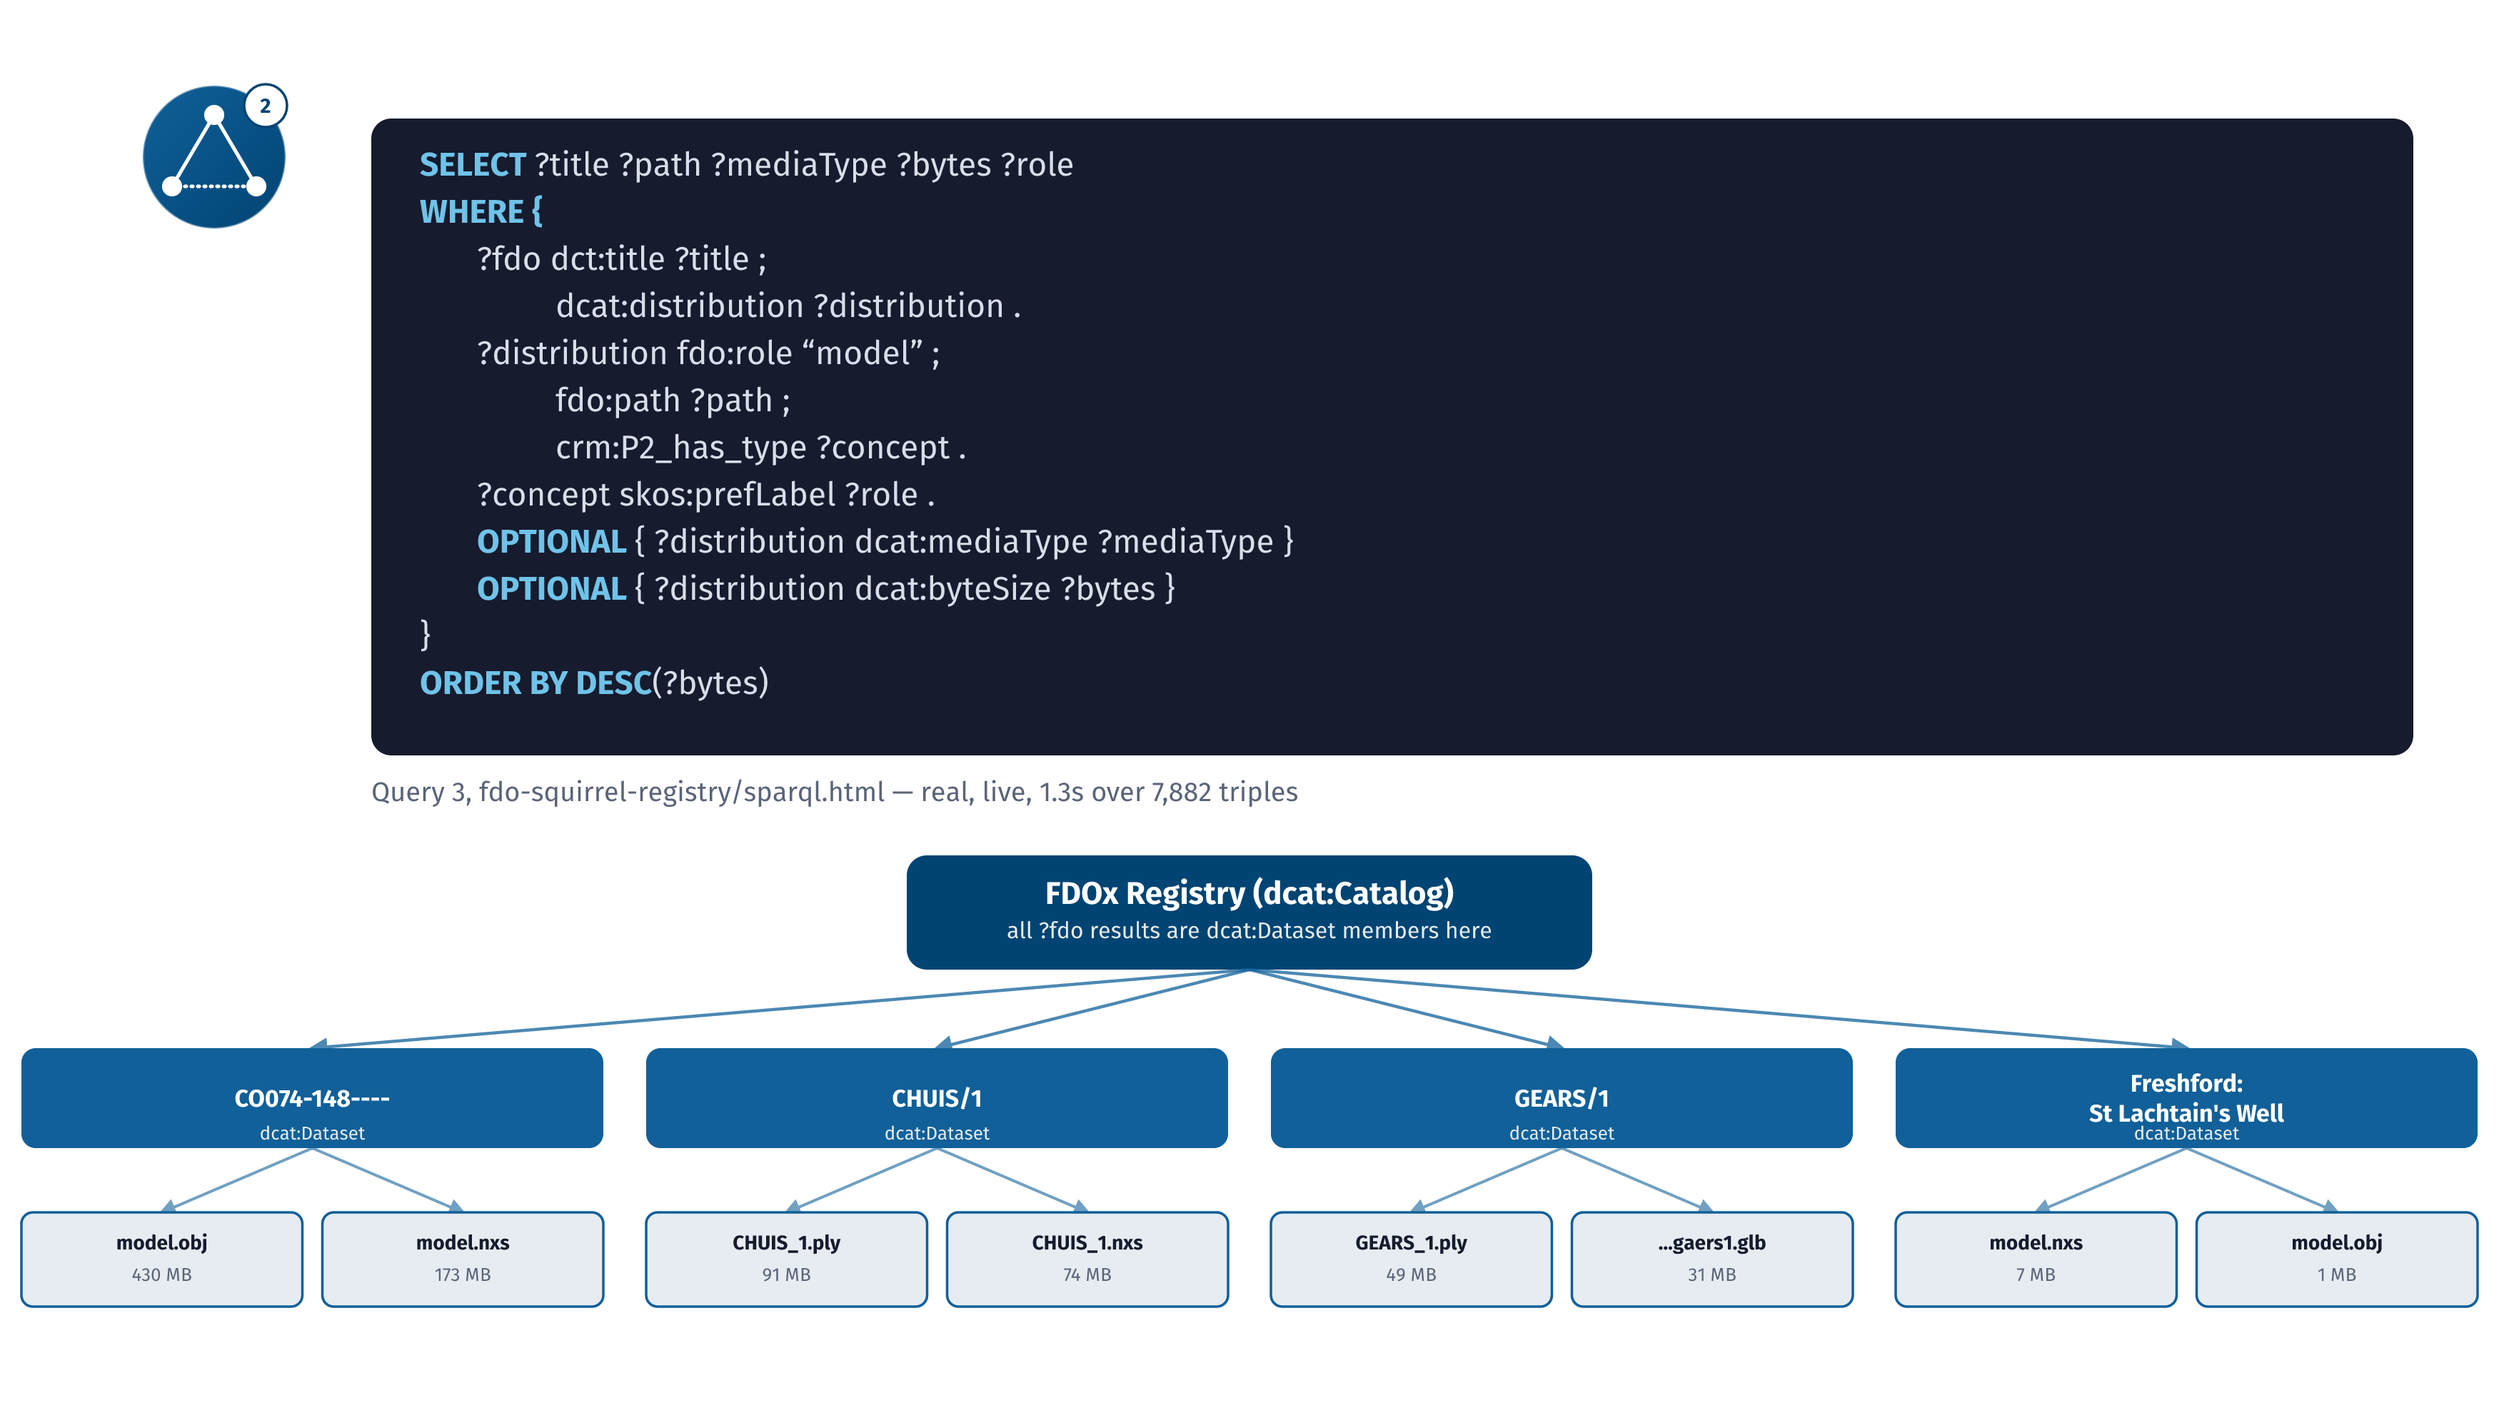
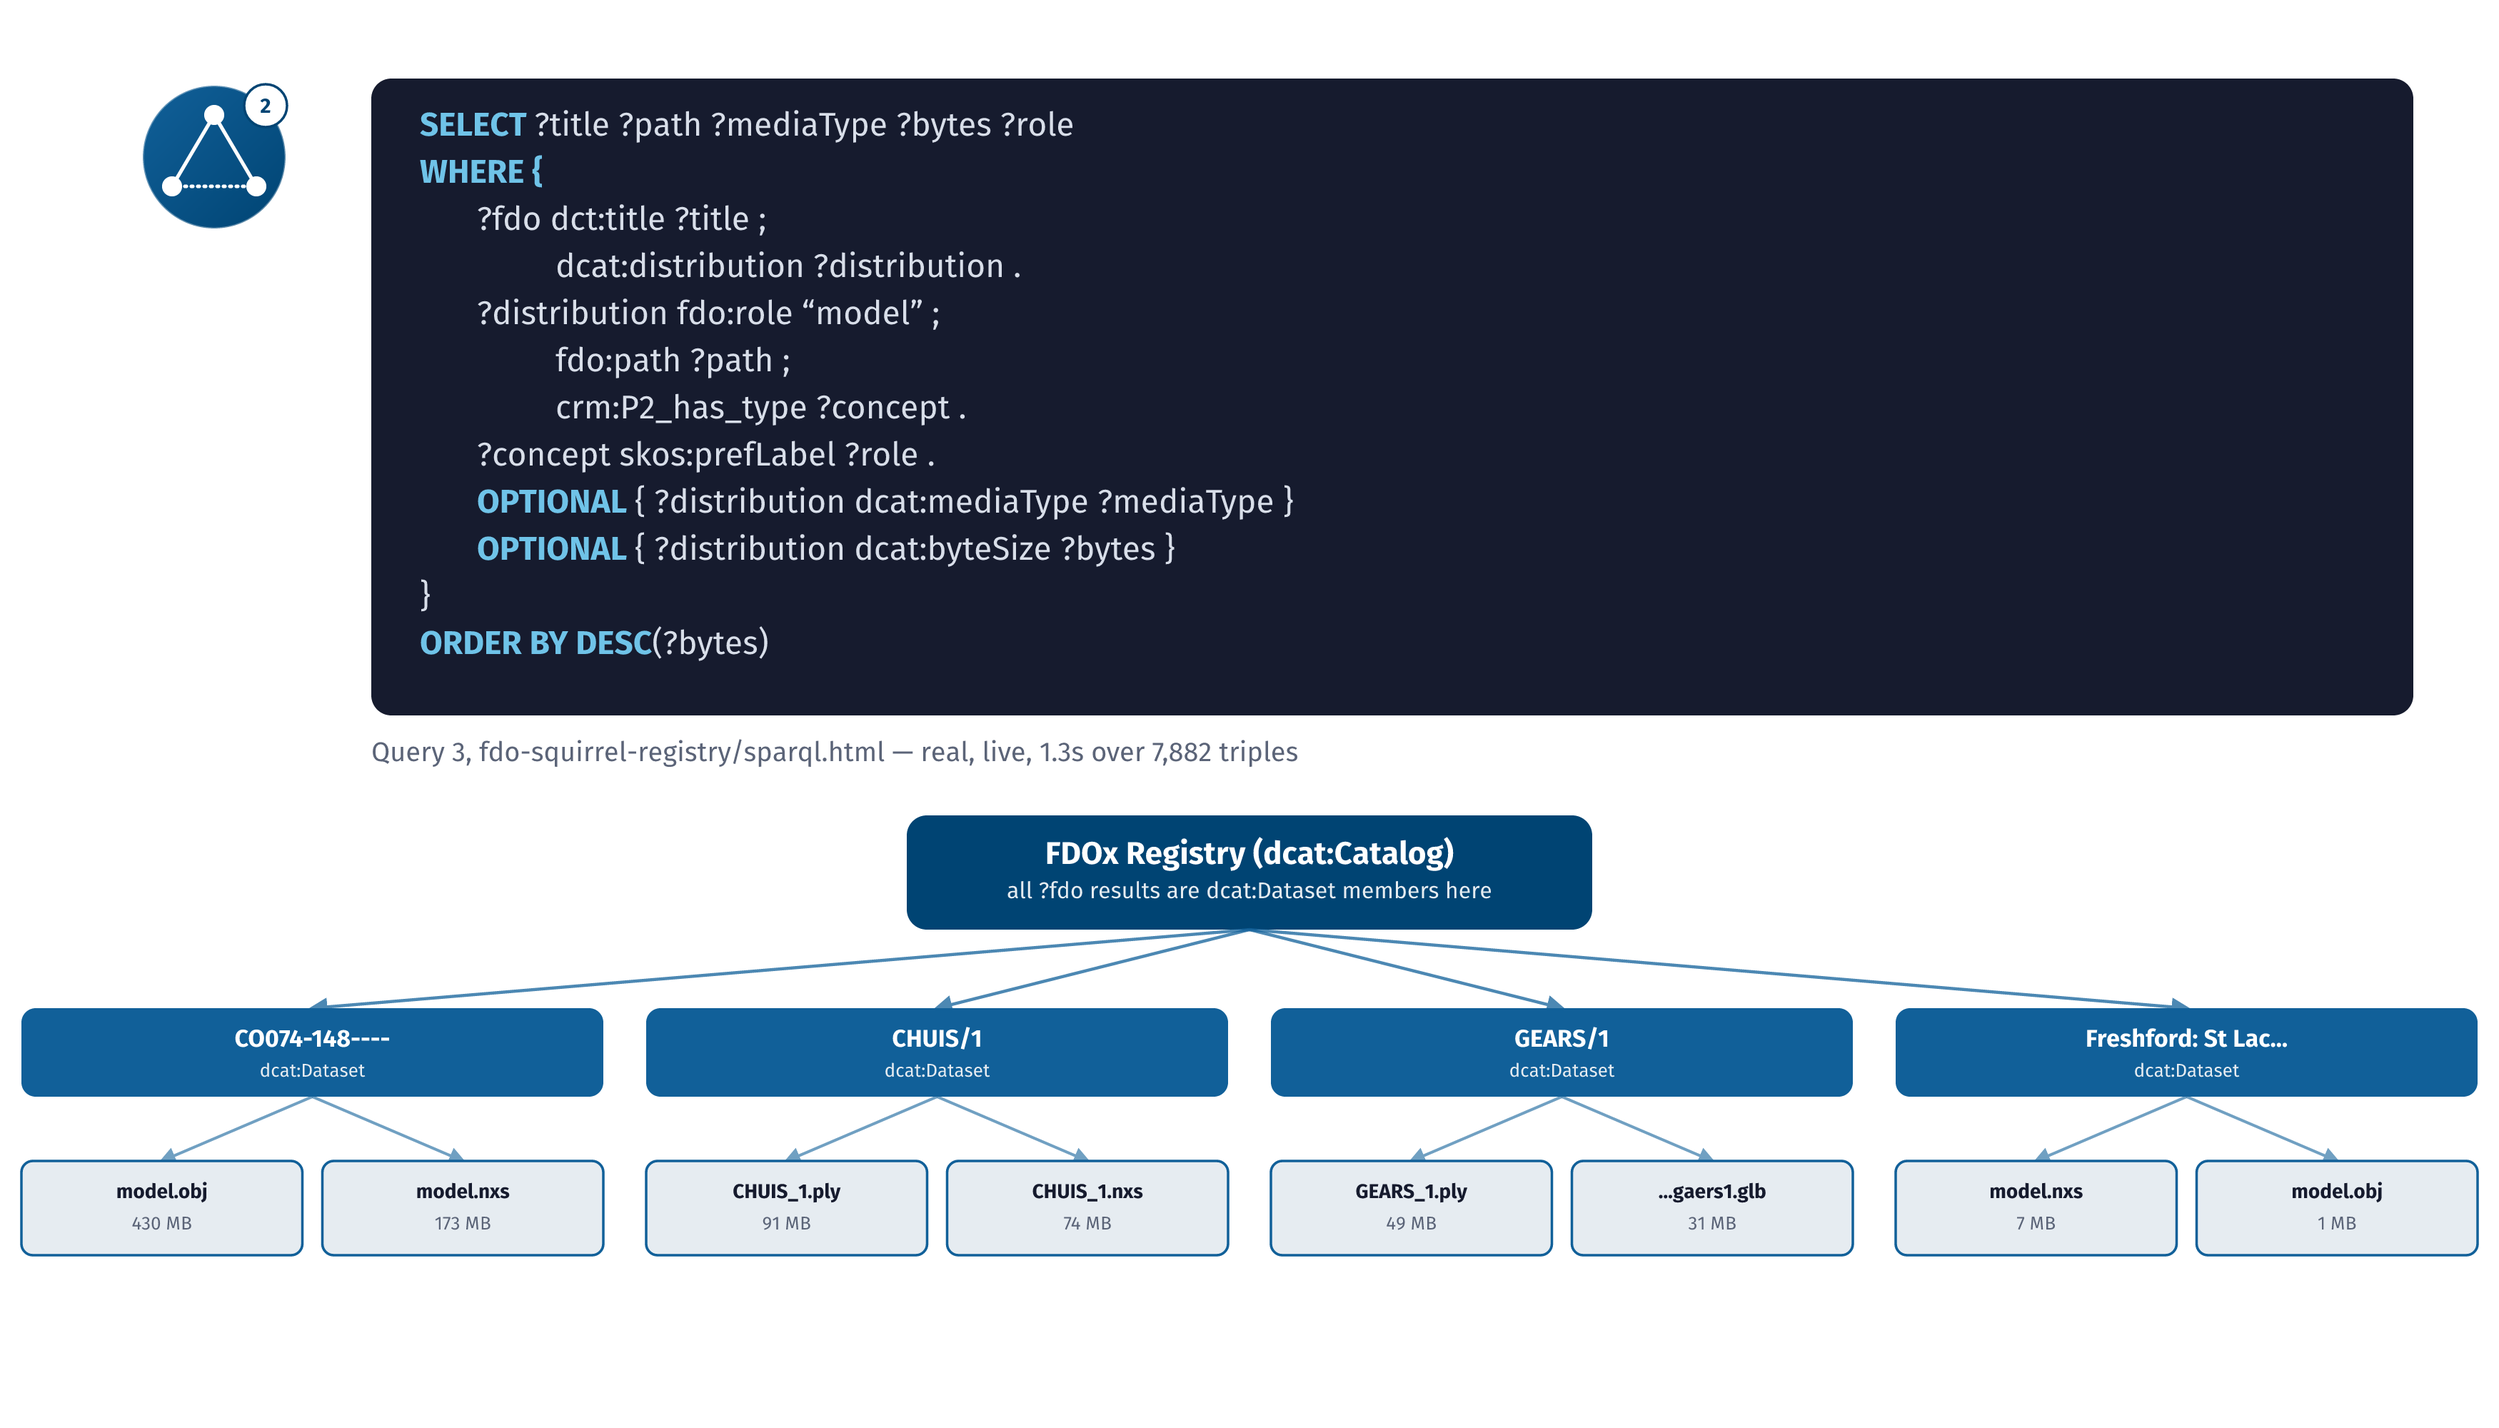
Fix S8/S9 slide positioning to match the approved references
S8 shipped a dynamic symmetric-margin balance instead of the exact (asymmetric, in three of four cases) shift Flo actually approved -- badges sat closer to content than intended. S9's purpose-2 slide wrapped a name onto two lines instead of truncating it, which pushed the dcat:Dataset caption out of alignment with the other three boxes in the same row.

Both fixes ship the exact values/behaviour from the sandbox scripts that produced the approved reference images, verified pixel-identical (purpose-2) or sub-pixel-antialiasing-only (the other seven) against them.

Changed region(s): [[0.0, 0.031, 0.9966, 0.93]]

diff --git a/py/step_talk_purpose.py b/py/step_talk_purpose.py
@@ -39,7 +39,6 @@ from visuals_utils import (  # noqa: E402
     ensure_dirs,
     esc,
     font_face_css,
-    measure_content_margins,
     render_svg_to_png,
 )
 
@@ -138,12 +137,6 @@ def _icon_svg(num: int, cy: float, scale: float = 0.6) -> str:
     out += (f'<text x="72" y="-62" text-anchor="middle" font-family="Fira Sans" font-weight="700" '
             f'font-size="29" fill="{ACCENT}">{num}</text></g>')
     return out
-
-
-def _icon_exclude_box(cy: float, scale: float) -> tuple[int, int, int, int]:
-    r = 100 * scale * OVERSAMPLE
-    cx_px, cy_px = ICON_CX * OVERSAMPLE, cy * OVERSAMPLE
-    return (int(cx_px - r), int(cy_px - r * 1.4), int(cx_px + r * 1.4), int(cy_px + r))
 
 
 def _svg_open() -> list[str]:
@@ -269,12 +262,6 @@ _QUERY_FDOS = [
     ("GEARS/1", [("GEARS_1.ply", "49 MB"), ("...gaers1.glb", "31 MB")]),
     ("Freshford: St Lachtain's Well", [("model.nxs", "7 MB"), ("model.obj", "1 MB")]),
 ]
-_QUERY_NAME_LINES = {
-    "CO074-148----": ["CO074-148----"],
-    "CHUIS/1": ["CHUIS/1"],
-    "GEARS/1": ["GEARS/1"],
-    "Freshford: St Lachtain's Well": ["Freshford:", "St Lachtain's Well"],
-}
 CODE_BG, CODE_TEXT, CODE_KEYWORD = "#161B2E", "#D8DEE9", "#6FC3E8"
 
 
@@ -310,7 +297,7 @@ def _build_purpose2(hshift: int, vshift: int) -> str:
 
     n = len(_QUERY_FDOS)
     slot_w = W / n
-    fdo_y, fdo_h = tree_top + root_h + 55, 70
+    fdo_y, fdo_h = tree_top + root_h + 55, 62
     file_y, file_h = fdo_y + fdo_h + 45, 66
     for i, (name, files) in enumerate(_QUERY_FDOS):
         slot_x = i * slot_w
@@ -320,13 +307,10 @@ def _build_purpose2(hshift: int, vshift: int) -> str:
         p.append(f'<line x1="{root_cx}" y1="{tree_top+root_h}" x2="{fdo_cx}" y2="{fdo_y}" stroke="{ACCENT_LIGHT}" '
                   f'stroke-width="2.2" marker-end="url(#arrow)" opacity="0.75"/>')
         p.append(f'<rect x="{fdo_x}" y="{fdo_y}" width="{fdo_w}" height="{fdo_h}" rx="10" fill="{ACCENT_LIGHT}"/>')
-        lines = _QUERY_NAME_LINES[name]
-        line_gap = 21 if len(lines) > 1 else 26
-        start_y = fdo_y + fdo_h / 2 - (len(lines) - 1) * line_gap / 2 + 6
-        for j, line in enumerate(lines):
-            p.append(f'<text x="{fdo_cx}" y="{start_y+j*line_gap}" text-anchor="middle" font-family="Fira Sans" '
-                      f'font-weight="700" font-size="17" fill="white">{esc(line)}</text>')
-        p.append(f'<text x="{fdo_cx}" y="{fdo_y+fdo_h-6}" text-anchor="middle" font-family="Fira Sans" font-weight="400" '
+        label = name if len(name) <= 20 else name[:17] + "..."
+        p.append(f'<text x="{fdo_cx}" y="{fdo_y+27}" text-anchor="middle" font-family="Fira Sans" '
+                  f'font-weight="700" font-size="17" fill="white">{esc(label)}</text>')
+        p.append(f'<text x="{fdo_cx}" y="{fdo_y+48}" text-anchor="middle" font-family="Fira Sans" font-weight="400" '
                   f'font-size="13" fill="{TINT}">dcat:Dataset</text>')
 
         file_w = (fdo_w - 14) / 2
@@ -528,19 +512,12 @@ def _build_purpose4(hshift: int, vshift: int) -> str:
 
 # ------------------------------------------------------------------------
 
-def _render_balanced(name: str, build_fn, badge_num: int, badge_cy: float, badge_scale: float) -> tuple[int, int]:
-    """Same two-pass discipline as S8's _render_balanced -- see that
-    module's docstring."""
+def _render_fixed(name: str, build_fn, hshift: int, vshift: int) -> tuple[int, int]:
+    """Render at an exact, pre-approved (hshift, vshift) -- see S8's
+    `_render_fixed()` docstring for why this replaced a dynamic symmetric-
+    margin measurement."""
     svg_path = IMG_DIR / f"{name}.svg"
     png_path = svg_path.with_suffix(".png")
-
-    svg_path.write_text(build_fn(0, 0), encoding="utf-8")
-    render_svg_to_png(svg_path, png_path, W * OVERSAMPLE, H * OVERSAMPLE)
-
-    exclude = _icon_exclude_box(badge_cy, badge_scale)
-    left, right, top, bottom = measure_content_margins(png_path, exclude)
-    hshift = round(((right - left) / 2) / OVERSAMPLE)
-    vshift = round(((bottom - top) / 2) / OVERSAMPLE)
 
     svg_path.write_text(build_fn(hshift, vshift), encoding="utf-8")
     render_svg_to_png(svg_path, png_path, W * OVERSAMPLE, H * OVERSAMPLE)
@@ -555,13 +532,13 @@ def run(strict: bool = False) -> list[str]:
     log: list[str] = []
 
     jobs = [
-        ("fdox-talk-purpose1-fair-citable", _build_purpose1, 1, 145, 0.62),
-        ("fdox-talk-purpose2-semantically-queryable", _build_purpose2, 2, 110, 0.5),
-        ("fdox-talk-purpose3-interoperable", _build_purpose3, 3, 120, 0.55),
-        ("fdox-talk-purpose4-integrable", _build_purpose4, 4, 130, 0.6),
+        ("fdox-talk-purpose1-fair-citable", _build_purpose1, 36, 0),
+        ("fdox-talk-purpose2-semantically-queryable", _build_purpose2, 0, 0),
+        ("fdox-talk-purpose3-interoperable", _build_purpose3, 23, 0),
+        ("fdox-talk-purpose4-integrable", _build_purpose4, -15, 60),
     ]
-    for name, build_fn, num, cy, scale in jobs:
-        w, h = _render_balanced(name, build_fn, num, cy, scale)
+    for name, build_fn, hshift, vshift in jobs:
+        w, h = _render_fixed(name, build_fn, hshift, vshift)
         log.append(f"wrote img/{name}.svg + .png ({w}x{h}, white background)")
 
     return log

diff --git a/py/step_talk_process.py b/py/step_talk_process.py
@@ -45,7 +45,6 @@ from visuals_utils import (  # noqa: E402
     esc,
     font_face_css,
     label_box,
-    measure_content_margins,
     paste_raster,
     render_svg_to_png,
 )
@@ -77,12 +76,6 @@ def _icon_svg(step_idx: int, scale: float, cx: float = ICON_CX, cy: float = ICON
     )
     out += "</g>"
     return out
-
-
-def _icon_exclude_box(scale: float) -> tuple[int, int, int, int]:
-    r = (ICON_R_DESIGN + 26) * scale * OVERSAMPLE
-    cx, cy = ICON_CX * OVERSAMPLE, ICON_CY * OVERSAMPLE
-    return (int(cx - r), int(cy - r), int(cx + r), int(cy + r))
 
 
 def _svg_open(defs: str = "") -> list[str]:
@@ -355,28 +348,24 @@ _STEP4_RASTER = dict(x=40, y=245, w=687, h=680, asset="talk-registry-screenshot.
 
 # ------------------------------------------------------------------------
 
-def _render_balanced(name: str, build_fn, icon_idx: int, icon_scale: float, icon_cy: float,
-                      raster_specs: list[dict]) -> tuple[int, int]:
-    """Two-pass render: build at (0,0), measure how far the true content
-    (icon excluded) sits from centred, rebuild shifted by exactly that
-    much. Measuring the actual rendered pixels rather than hand-picking a
-    shift is the same discipline PRIMER already applies to trim_transparent_
-    border (A1 finding 7) -- guessing a margin in design units misses
-    content a wide title/photo can push further out than expected.
+def _render_fixed(name: str, build_fn, hshift: int, vshift: int, raster_specs: list[dict]) -> tuple[int, int]:
+    """Render at an exact, pre-approved (hshift, vshift).
+
+    S8 originally computed this shift dynamically (render once at (0,0),
+    measure the true content margins with the badge excluded, rebuild
+    centred) -- the same discipline PRIMER already applies to
+    trim_transparent_border (A1 finding 7). That measurement is *symmetric*
+    margin-balancing, though, and two of Flo's four approved slides are
+    deliberately *not* symmetric (step 1: "muss weiter runter... das ist zu
+    sehr am Symbol", i.e. more clearance below the badge than a pure
+    left/right-and-top/bottom balance would give). Ship exactly the values
+    Flo approved instead of an approximation of them -- see PRIMER S8
+    Nachtrag. `visuals_utils.measure_content_margins()` stays available for
+    the next slide this family adds, where there won't yet be an approved
+    reference to match.
     """
     svg_path = IMG_DIR / f"{name}.svg"
     png_path = svg_path.with_suffix(".png")
-
-    svg_path.write_text(build_fn(0, 0), encoding="utf-8")
-    render_svg_to_png(svg_path, png_path, W * OVERSAMPLE, H * OVERSAMPLE)
-
-    r_px = (150 + 26) * icon_scale * OVERSAMPLE  # badge radius + corner-tag offset, in rendered px
-    cx_px, cy_px = ICON_CX * OVERSAMPLE, icon_cy * OVERSAMPLE
-    exclude = (int(cx_px - r_px), int(cy_px - r_px), int(cx_px + r_px), int(cy_px + r_px))
-    left, right, top, bottom = measure_content_margins(png_path, exclude)
-
-    hshift = round(((right - left) / 2) / OVERSAMPLE)
-    vshift = round(((bottom - top) / 2) / OVERSAMPLE)
 
     svg_path.write_text(build_fn(hshift, vshift), encoding="utf-8")
     render_svg_to_png(svg_path, png_path, W * OVERSAMPLE, H * OVERSAMPLE)
@@ -406,18 +395,18 @@ def run(strict: bool = False) -> list[str]:
         log.append(f"WARNING: {msg}")
 
     jobs = [
-        ("fdox-talk-step1-fdo-encapsulation", _build_step1, 0, 0.56, 165,
+        ("fdox-talk-step1-fdo-encapsulation", _build_step1, -4, 20,
          [] if missing else [_STEP1_RASTER]),
-        ("fdox-talk-step2-semantic-metadata", _build_step2, 1, 0.48, 120, []),
-        ("fdox-talk-step3-linking-hubs", _build_step3, 2, 0.56, 165,
+        ("fdox-talk-step2-semantic-metadata", _build_step2, 0, 0, []),
+        ("fdox-talk-step3-linking-hubs", _build_step3, 32, 4,
          [] if missing else [dict(x=560-210, y=500-210, w=420, h=420,
                                    asset="talk-ciic81-preview.png", circular=True)]),
-        ("fdox-talk-step4-federated-kg", _build_step4, 3, 0.5, 130,
+        ("fdox-talk-step4-federated-kg", _build_step4, 0, 0,
          [] if missing else [_STEP4_RASTER]),
     ]
 
-    for name, build_fn, icon_idx, icon_scale, icon_cy, rasters in jobs:
-        w, h = _render_balanced(name, build_fn, icon_idx, icon_scale, icon_cy, rasters)
+    for name, build_fn, hshift, vshift, rasters in jobs:
+        w, h = _render_fixed(name, build_fn, hshift, vshift, rasters)
         log.append(f"wrote img/{name}.svg + .png ({w}x{h}, white background)")
 
     return log

diff --git a/PRIMER.md b/PRIMER.md
@@ -749,6 +749,46 @@ ursprünglicher Boxhöhe 62) — Boxhöhe auf 70 angehoben, Zeilenabstand bei
 mehrzeiligen Namen auf 21 statt 26 verkürzt. 3500×2000 pro Folie, weißer
 Hintergrund, `PIL.Image.mode == "RGB"` geprüft.
 
+### Nachtrag 2026-09-09 — Abnahme oben war zu früh: Abweichung von den freigegebenen Referenzbildern
+
+Flo hatte die Referenzbilder (die dieser Chat portiert) schon vorher aus
+einem separaten Sandkasten-Chat freigegeben ("top!"/"besser"/"passt", S8-
+Eintrag). Ein lokaler Lauf gegen den echten Klon zeigte danach zwei
+Abweichungen, die die obige Abnahme nicht abgedeckt hatte:
+
+1. **S8, Step 1/2/4:** die Icon-Badge saß spürbar näher am Inhalt als in
+   den freigegebenen Bildern. Ursache: `_render_balanced()` (beide Module)
+   maß den tatsächlichen Inhalt und zentrierte ihn *symmetrisch* um die
+   Badge — bei drei der vier Prozess-Folien war die freigegebene Position
+   aber bewusst *nicht* symmetrisch (Step 1 explizit: "muss weiter runter…
+   das ist zu sehr am Symbol"). Eine automatische Rand-Balance kann eine
+   subjektive Korrektur dieser Art nicht treffen, sie rechnet ja gerade das
+   Gegenteil aus. Fix: `_render_balanced()` durch `_render_fixed()`
+   ersetzt, das die acht `(hshift, vshift)`-Werte aus den noch vorhandenen
+   Sandkasten-Bau-Skripten übernimmt (nicht neu berechnet) — siehe
+   `PATCH-README.md` des entsprechenden Korrektur-Patches für die exakten
+   Zahlen. `visuals_utils.measure_content_margins()` bleibt als Werkzeug
+   liegen (bislang ungenutzt seit diesem Nachtrag, analog zu
+   `flatten_to_jpg()`, Teil D) für eine künftige Folie ohne bereits
+   freigegebenes Referenzbild.
+2. **S9, Zweck 2:** Die oben stehende Abnahme beschreibt einen "gefundenen
+   und gefixten" Layout-Fehler (zweizeiliger Name kollidierte mit
+   `dcat:Dataset`) — die Korrektur war aber selbst die Abweichung. Das
+   freigegebene Referenzbild schneidet lange Namen auf eine Zeile ab
+   (`"Freshford: St Lac..."`), zeigt sie nicht zweizeilig. Der zweizeilige
+   Umbau wurde beim Portieren eingeführt, ohne dass Flo danach gefragt
+   hatte, und erst dadurch entstand der eng wirkende Abstand zu
+   `dcat:Dataset`, den Flo dann zu Recht bemängelte. Fix: zurückgebaut auf
+   Ein-Zeilen-Kürzung, Boxhöhe zurück auf 62.
+
+Nach dem Fix: `fdox-talk-purpose2-semantically-queryable.png` ist
+bytegleich mit Flos freigegebenem Referenzbild; die anderen sieben Folien
+weichen um unter 1 % der Pixel ab (Sub-Pixel-Kantenglättung an
+Text/Kreisen, geprüft mit `PIL.ImageChops.difference` + Schwellwert 10/255
+pro Kanal, keine Inhalts-/Layout-Differenz). Determinismus erneut geprüft
+(zwei Läufe, `md5sum` identisch), volle Pipeline weiterhin fehlerfrei,
+keine der sechs bestehenden Grafiken (S0–S7) verändert.
+
 ---
 
 # Teil D — Offene Punkte
